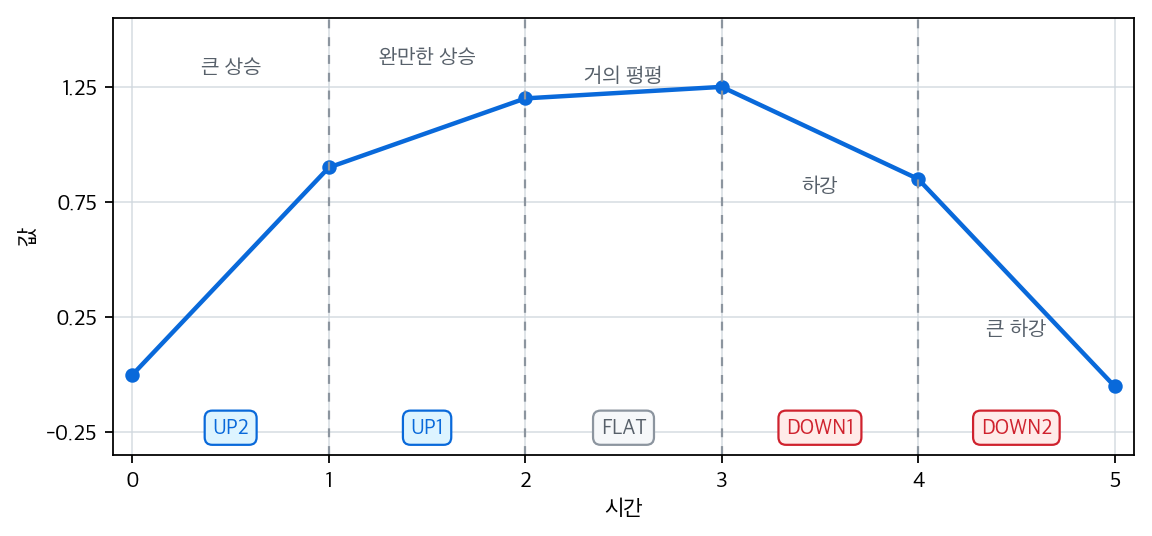
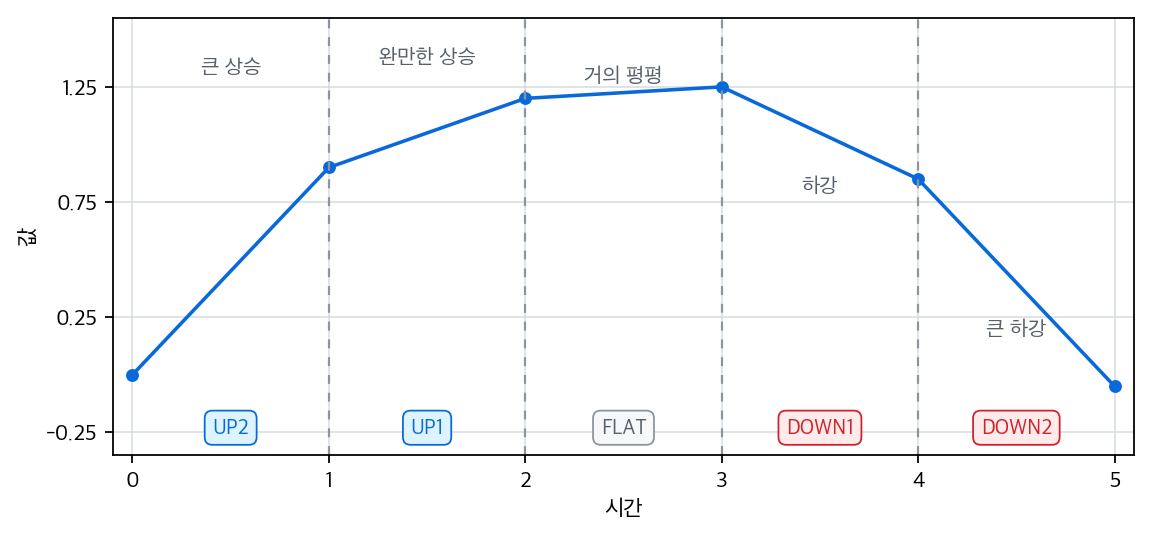
Refine P3 segment tokenization chart

diff --git a/docs/assets/part-03/chapter-06/p3_6_2_segment_tokenization_curve.py b/docs/assets/part-03/chapter-06/p3_6_2_segment_tokenization_curve.py
@@ -62,7 +62,7 @@ def save_chart(lang: str, text: dict[str, object]) -> None:
 
     fig.patch.set_facecolor("white")
     ax.set_facecolor("white")
-    ax.plot(x, POINTS, marker="o", markersize=5.5, linewidth=2.0, color="#0969da")
+    ax.plot(x, POINTS, marker="o", markersize=4.8, linewidth=1.6, color="#0969da")
     ax.set_xlim(-0.1, 5.1)
     ax.set_ylim(-0.35, 1.55)
     ax.set_xlabel(text["xlabel"])
@@ -91,7 +91,7 @@ def save_chart(lang: str, text: dict[str, object]) -> None:
             fontsize=9.5,
             fontweight="bold",
             color=color,
-            bbox={"boxstyle": "round,pad=0.36", "facecolor": face, "edgecolor": edge, "linewidth": 1.0},
+            bbox={"boxstyle": "round,pad=0.36", "facecolor": face, "edgecolor": edge, "linewidth": 0.8},
         )
 
     ax.set_xticks(np.arange(6))

diff --git a/management/release-notes/sections/part-03/P3-6.2.md b/management/release-notes/sections/part-03/P3-6.2.md
@@ -19,6 +19,7 @@
 - 본문 반영: 한국어 원문과 영어·중국어 간체 번역본에 원시 곡선을 다섯 구간으로 나누고 `UP2`, `UP1`, `FLAT`, `DOWN1`, `DOWN2`로 요약하는 pyplot 생성 그래프와 설명 문장을 추가했다.
 - 변경 이유: 그래프 내부에 제목, 설명문, 하단 요약문까지 렌더링하면 본문 문장과 역할이 겹치고 이미지가 과하게 커졌다.
 - 자산 반영: 구간 라벨과 토큰 라벨은 그래프를 읽는 핵심 데이터로 유지하되, 제목·설명문·하단 요약문은 제거하고 주 곡선의 선 두께와 토큰 라벨 박스 두께를 줄였다.
+- 자산 반영: 다국어 MkDocs 출력에서도 안정적으로 자산을 찾도록 한국어·영어·중국어 이미지 링크를 `/AiBook/assets/...` 사이트 경로로 정리했다.
 - 번역 동기화 메모: 한국어, 영어, 중국어 본문이 모두 같은 생성 스크립트에서 나온 언어별 PNG를 직접 참조하도록 동기화 완료.
 - 번역 반영 상태: 영문·중국어 간체 반영 완료
 - 관련 자산: `docs/assets/part-03/chapter-06/p3_6_2_segment_tokenization_curve.py`, `docs/assets/part-03/chapter-06/segment-tokenization-curve-ko.png`, `docs/assets/part-03/chapter-06/segment-tokenization-curve-en.png`, `docs/assets/part-03/chapter-06/segment-tokenization-curve-zh.png`, `docs/assets/part-03/chapter-06/README.md`

diff --git a/docs/parts/part-03/chapter-06/section-02.en.md b/docs/parts/part-03/chapter-06/section-02.en.md
@@ -17,7 +17,7 @@ This is where segment expressions and tokenized expressions appear. The core ide
 
 If we divide the raw curve into segments as in the graph below, tokenization becomes visible not as simply naming things, but as `turning the curve's direction and strength into shorter reading units`.
 
-![Graph that divides a raw curve into five segments and turns them into the tokens UP2, UP1, FLAT, DOWN1, and DOWN2](../../../assets/part-03/chapter-06/segment-tokenization-curve-en.png)
+![Graph that divides a raw curve into five segments and turns them into the tokens UP2, UP1, FLAT, DOWN1, and DOWN2](/AiBook/assets/part-03/chapter-06/segment-tokenization-curve-en.png)
 
 Once this is done, a long curve shrinks into a short sequence such as `UP, FLAT, DOWN`. This expression is easy for people to read, and it also lets a model receive the structure of the curve as an input with more regular length. In other words, a segment expression is the act of converting a complex time series into `an intermediate representation that people and models can both look at`.
 

diff --git a/docs/parts/part-03/chapter-06/section-02.md b/docs/parts/part-03/chapter-06/section-02.md
@@ -17,7 +17,7 @@
 
 아래 그래프처럼 원시 곡선을 구간으로 나누어 보면, 토큰화가 단순히 이름을 붙이는 일이 아니라 `곡선의 방향과 강도를 더 짧은 읽기 단위로 바꾸는 일`이라는 점이 보입니다.
 
-![원시 곡선을 다섯 구간으로 나누고 UP2, UP1, FLAT, DOWN1, DOWN2 토큰으로 바꾸는 그래프](../../../assets/part-03/chapter-06/segment-tokenization-curve-ko.png)
+![원시 곡선을 다섯 구간으로 나누고 UP2, UP1, FLAT, DOWN1, DOWN2 토큰으로 바꾸는 그래프](/AiBook/assets/part-03/chapter-06/segment-tokenization-curve-ko.png)
 
 이렇게 바꾸면 긴 곡선이 `UP, FLAT, DOWN` 같은 짧은 시퀀스로 줄어듭니다. 이 표현은 사람이 읽기 쉽고, 모델도 곡선의 구조를 더 일정한 길이의 입력으로 받아들일 수 있습니다. 즉 세그먼트 표현은 복잡한 시계열을 `사람과 모델이 같이 볼 수 있는 중간 표현`으로 바꾸는 일입니다.
 

diff --git a/docs/parts/part-03/chapter-06/section-02.zh.md b/docs/parts/part-03/chapter-06/section-02.zh.md
@@ -17,7 +17,7 @@
 
 像下面的图这样把原始曲线分成区段之后，就能看见 token 化并不是单纯给名字，而是在 `把曲线的方向和强度改写成更短的读取单位`。
 
-![把原始曲线分成五个区段，并转换成 UP2、UP1、FLAT、DOWN1、DOWN2 token 的图](../../../assets/part-03/chapter-06/segment-tokenization-curve-zh.png)
+![把原始曲线分成五个区段，并转换成 UP2、UP1、FLAT、DOWN1、DOWN2 token 的图](/AiBook/assets/part-03/chapter-06/segment-tokenization-curve-zh.png)
 
 这样一来，一条长曲线就会缩成像 `UP, FLAT, DOWN` 这样的短序列。这种表达对人来说容易阅读，对模型来说也更容易把曲线结构接收成长度更规则的输入。也就是说，区段表示是在把复杂时间序列转换成 `人和模型都能一起看的中间表示`。
 
